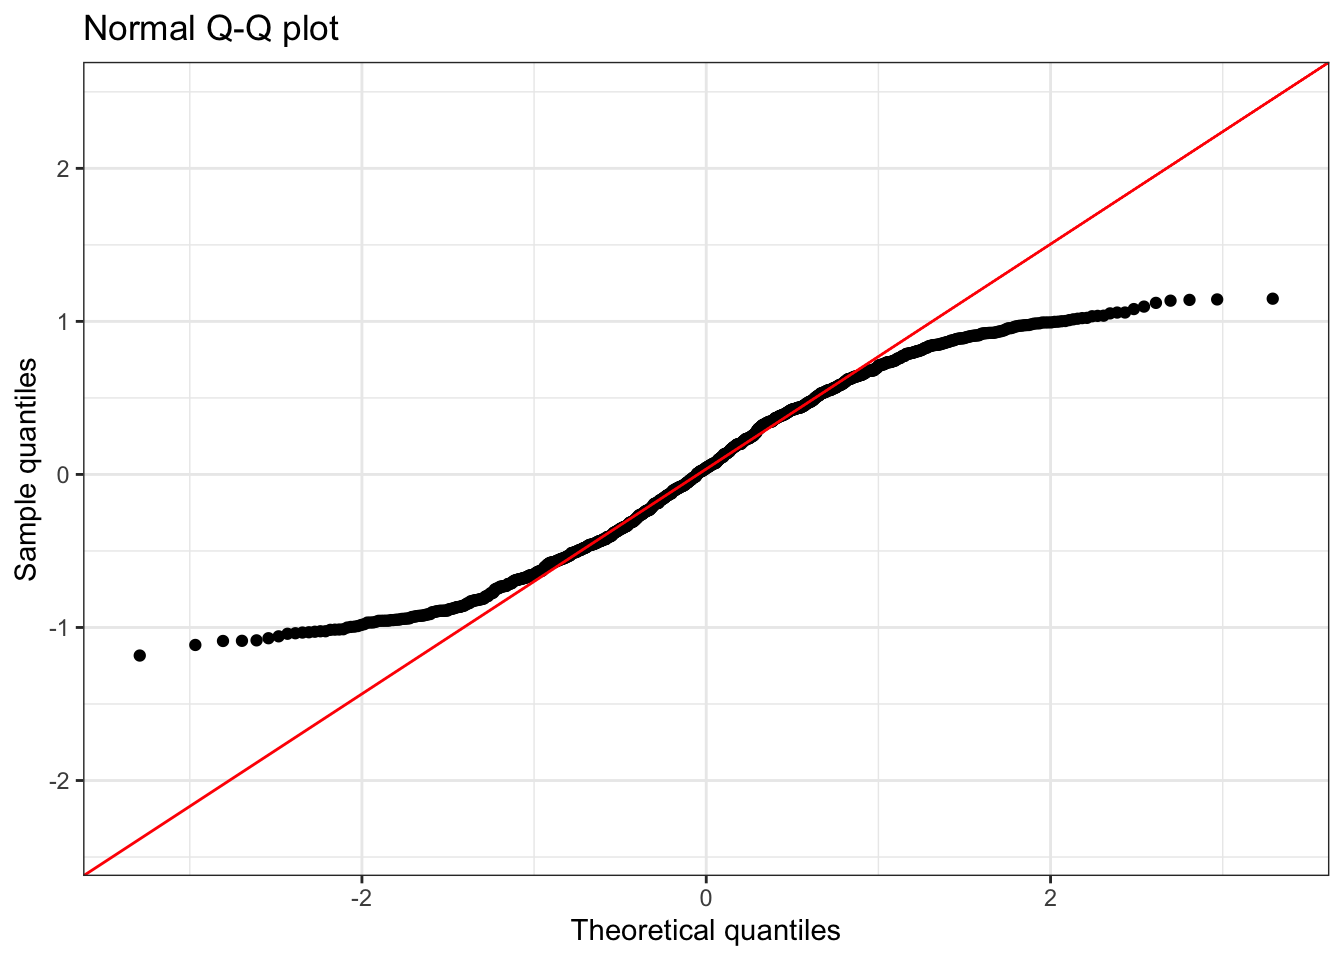
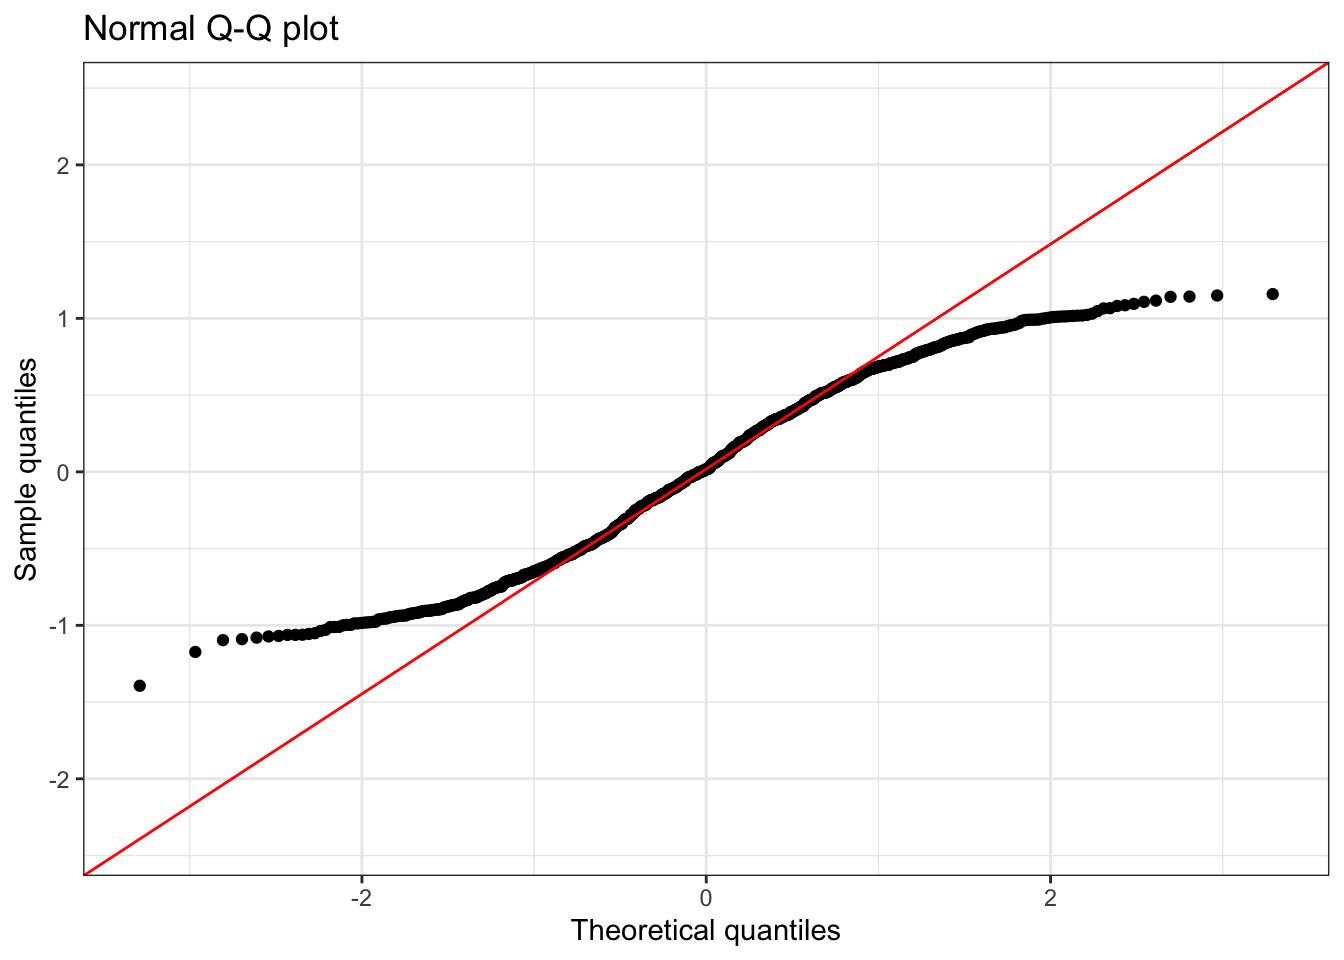
post update

diff --git a/docs/02_Data_Visualization.html b/docs/02_Data_Visualization.html
@@ -1264,7 +1264,7 @@ sample estimates:
 <div class="cell">
 <div class="cell-output cell-output-stdout">
 <pre><code>      n   min mean median  max sd skewness kurtosis
-1 10000 -1.93    0  -0.19 4.62  1     0.84     3.44</code></pre>
+1 10000 -2.05    0  -0.18 5.57  1     0.88     3.71</code></pre>
 </div>
 </div>
 <p>💡 Note that for a positive skewed distribution, <strong>the mean is larger than the median</strong> because the long right tail pulls the mean above the median.</p>
@@ -1301,8 +1301,8 @@ sample estimates:
 <p>Summary statistics:</p>
 <div class="cell">
 <div class="cell-output cell-output-stdout">
-<pre><code>      n   min  mean median  max sd skewness kurtosis
-1 10000 -4.61 -0.01   0.18 1.88  1    -0.84     3.44</code></pre>
+<pre><code>      n  min mean median  max sd skewness kurtosis
+1 10000 -4.6    0   0.16 1.81  1    -0.87     3.58</code></pre>
 </div>
 </div>
 <p>💡 Note that for a negatively skewed distribution, <strong>the mean is smaller than the median</strong> because the long left tail pulls the mean above the median.</p>
@@ -1347,8 +1347,8 @@ sample estimates:
 <p>Summary statistics:</p>
 <div class="cell">
 <div class="cell-output cell-output-stdout">
-<pre><code>     n    min  mean median   max   sd skewness kurtosis
-1 1000 -15.54 -0.01  -0.01 17.76 1.81     0.03    21.39</code></pre>
+<pre><code>     n    min mean median   max   sd skewness kurtosis
+1 1000 -11.64 0.02      0 11.44 1.63     0.66    12.74</code></pre>
 </div>
 </div>
 <p><strong>Understanding Fat Tails (High Kurtosis):</strong></p>
@@ -1390,7 +1390,7 @@ sample estimates:
 <div class="cell">
 <div class="cell-output cell-output-stdout">
 <pre><code>     n   min mean median  max   sd skewness kurtosis
-1 1000 -1.18 0.03   0.04 1.15 0.59    -0.06     1.87</code></pre>
+1 1000 -1.39 0.02   0.02 1.16 0.58    -0.06     1.94</code></pre>
 </div>
 </div>
 <p><strong>Understanding Thin Tails (Low Kurtosis):</strong></p>

diff --git a/docs/07_Lab-2_dummy-variable.html b/docs/07_Lab-2_dummy-variable.html
@@ -687,7 +687,7 @@ window.Quarto = {
 </ul>
 <section id="instructions" class="level2" data-number="1">
 <h2 data-number="1" class="anchored" data-anchor-id="instructions"><span class="header-section-number">1</span> Instructions</h2>
-<p>Copy and paste <strong>ALL code</strong> in this notebook into a new R script file in RStudio. Save the file as <code>lab2_binary_variables.R</code> (we call it a script). Then, run the code step by step, answering the questions.</p>
+<p>Copy and paste <strong>ALL code</strong> in this page into a new R script file in RStudio. Save the file as <code>lab2_binary_variables.R</code> (we call it a script). Then, run the code step by step, answering the questions.</p>
 <div id="8cf1cd7a" class="cell" data-quarto-private-1="{&quot;key&quot;:&quot;vscode&quot;,&quot;value&quot;:{&quot;languageId&quot;:&quot;r&quot;}}" data-execution_count="5">
 <div class="sourceCode cell-code" id="cb1"><pre class="sourceCode r code-with-copy"><code class="sourceCode r"><span id="cb1-1"><a href="#cb1-1" aria-hidden="true" tabindex="-1"></a><span class="co"># load packages and dataset</span></span>
 <span id="cb1-2"><a href="#cb1-2" aria-hidden="true" tabindex="-1"></a>pkgs <span class="ot">&lt;-</span> <span class="fu">c</span>(<span class="st">"tidyverse"</span>, <span class="st">"moments"</span>, <span class="st">"data.table"</span>, <span class="st">"ggsci"</span>, <span class="st">"stargazer"</span>)</span>

diff --git a/docs/04_Theoretical_Framework_LR.html b/docs/04_Theoretical_Framework_LR.html
@@ -988,7 +988,7 @@ Solution
 </div>
 <div class="cell" data-layout-align="center">
 <div class="cell-output-display">
-<div id="fig-clt" class="quarto-float quarto-figure quarto-figure-center anchored" data-fig-pos="H" data-fig-align="center" width="990">
+<div id="fig-clt" class="quarto-float quarto-figure quarto-figure-center anchored" data-fig-align="center" width="990" data-fig-pos="H">
 <figure class="quarto-float quarto-float-fig figure">
 <div aria-describedby="fig-clt-caption-0ceaefa1-69ba-4598-a22c-09a6ac19f8ca">
 <img src="images/CLT.png" id="fig-clt" class="img-fluid quarto-figure quarto-figure-center anchored figure-img" data-fig-pos="H" width="990">
